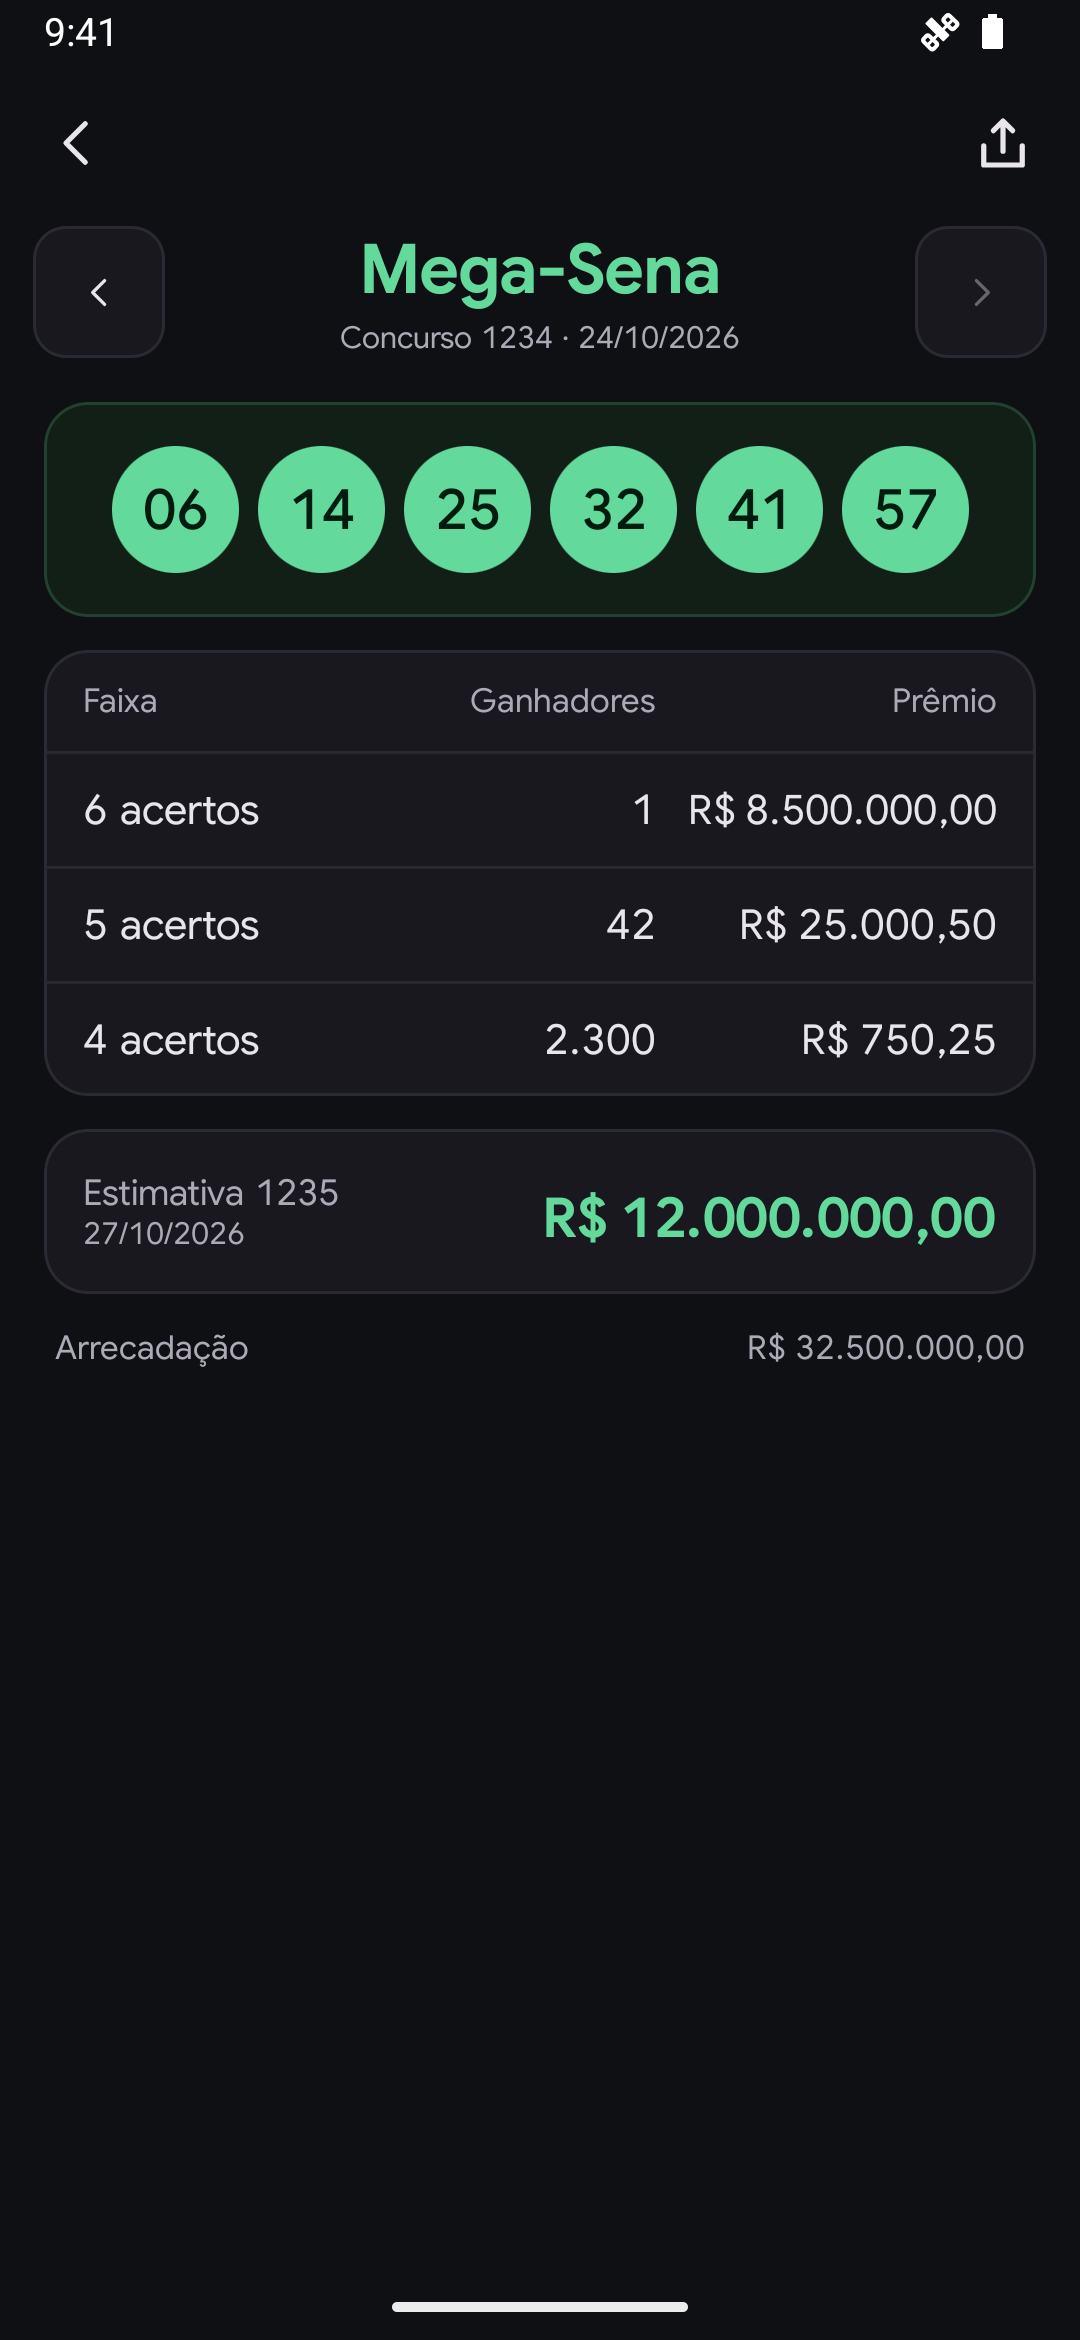
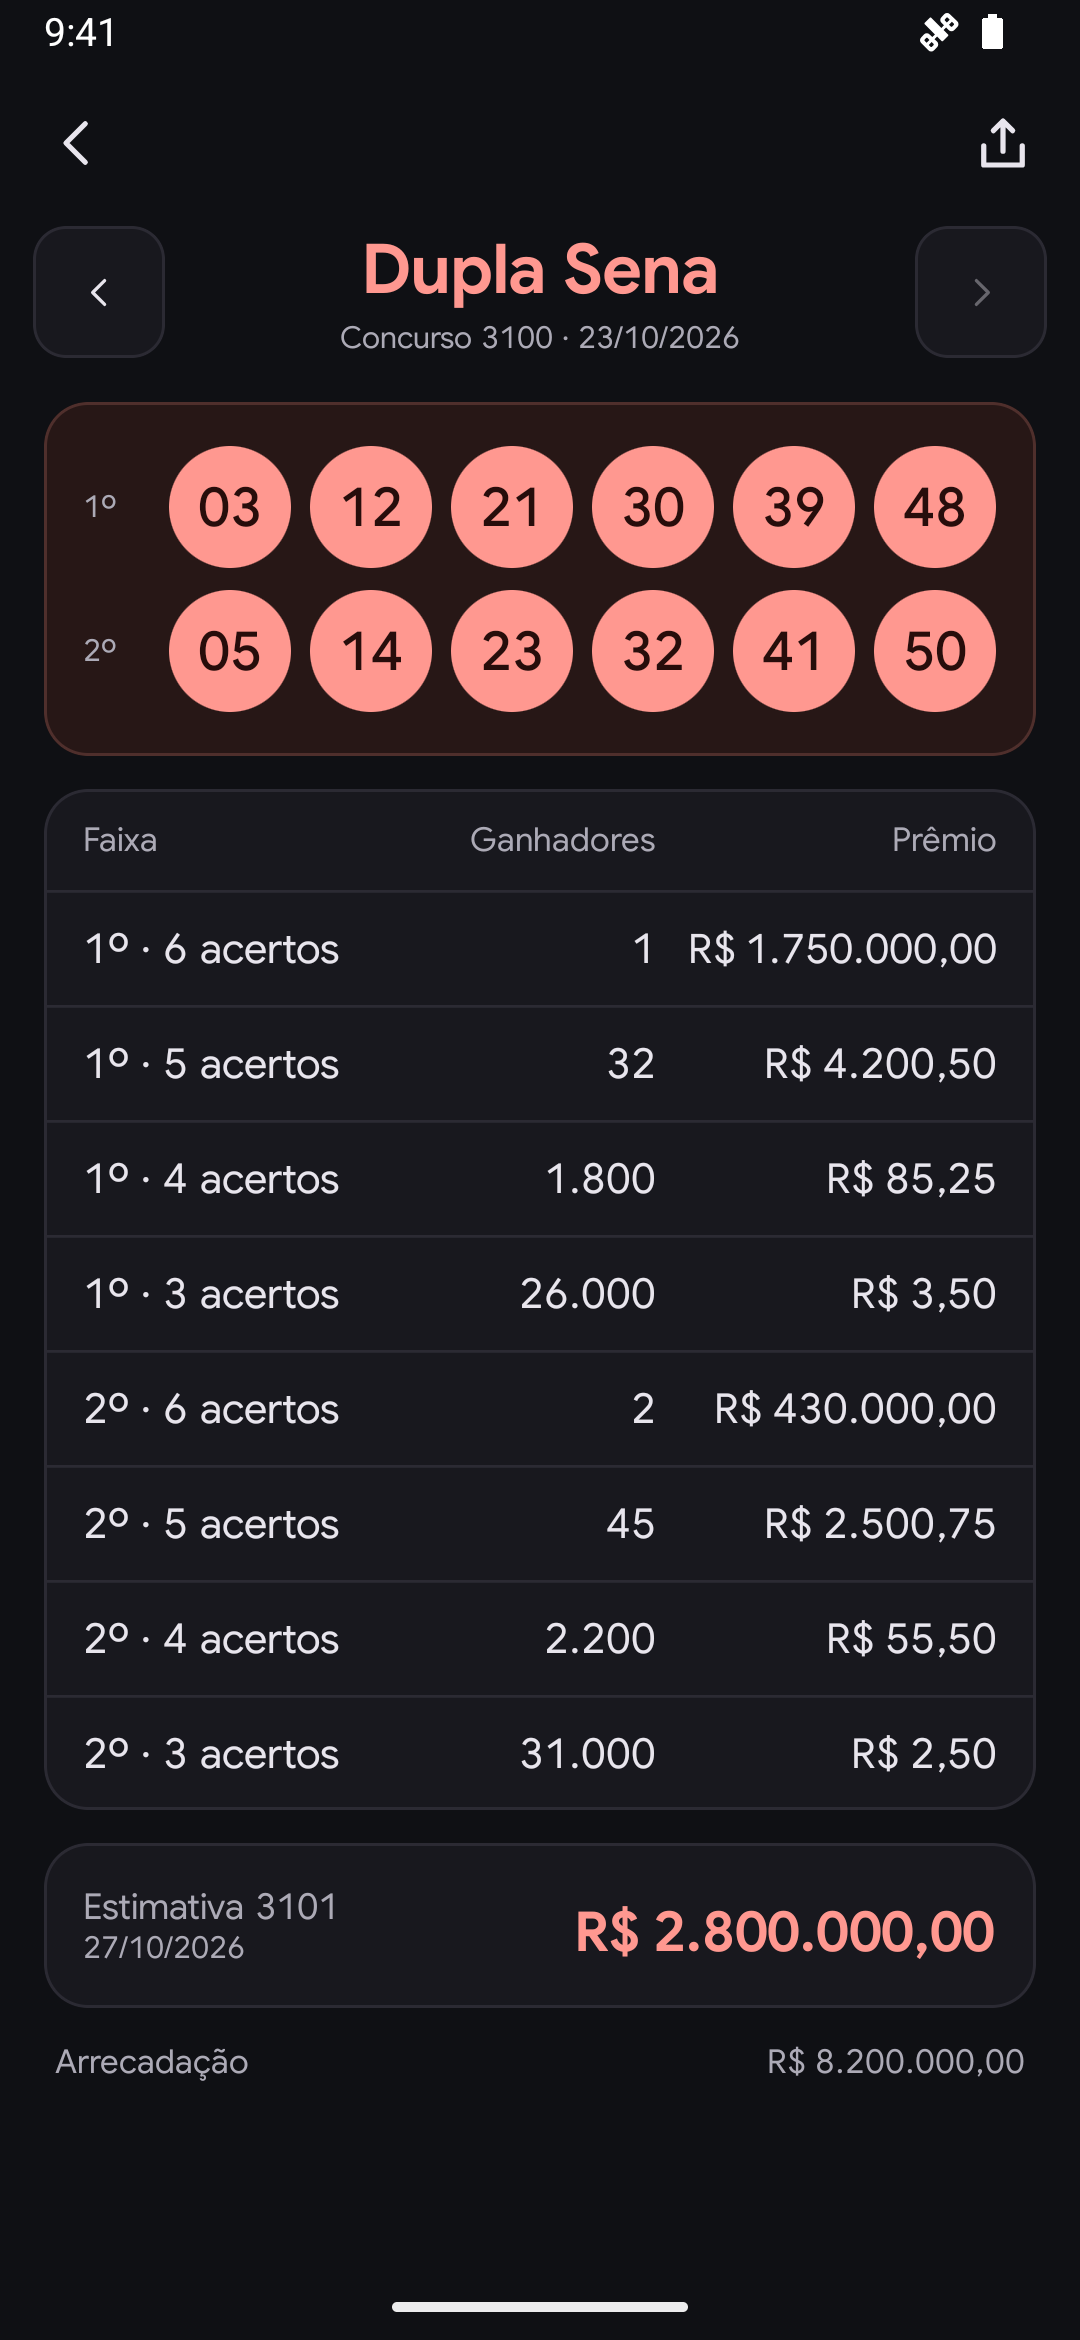
docs(presentation): clarify the copy and show a fuller draw
[Review]
- Distinguish navigation destinations from result and detail screens.
- Name the modality range and trademark owner precisely.
- Vary the illustrative draws and show both Dupla Sena prize tables so
  the screenshots demonstrate more of the app within the same space.

Implemented-by: codex:gpt-6.1-sol#xhigh

diff --git a/README.md b/README.md
@@ -13,14 +13,14 @@
   <a href="https://github.com/11xx/lotolivre/releases">Releases · APK para Android</a>
 </p>
 
-Da Mega-Sena à Loteca, os resultados ficam numa única lista. Abra uma modalidade
+Da Mega-Sena à Federal, os resultados ficam numa única lista. Abra uma modalidade
 para ver a premiação, navegar entre concursos e compartilhar o resultado como
 imagem. Os concursos consultados ficam no aparelho e abrem mesmo sem internet.
 
 <p align="center">
   <img src="docs/screenshots/results-light.png" width="320" alt="Lista de resultados no tema claro, com cartões coloridos por modalidade">
   &nbsp;
-  <img src="docs/screenshots/detail-dark.png" width="320" alt="Detalhe da Mega-Sena no tema escuro, com dezenas, ganhadores e premiação">
+  <img src="docs/screenshots/detail-dark.png" width="320" alt="Detalhe da Dupla Sena no tema escuro, com os dois sorteios e a premiação">
 </p>
 
 <p align="center"><sub>Telas do aplicativo em execução com dados fictícios.</sub></p>
@@ -30,7 +30,7 @@ jogos, não guarda apostas e não pede cadastro. Os resultados vêm da API do
 portal de loterias da Caixa, que não é documentada e pode mudar sem aviso.
 
 LotoLivre é independente, sem afiliação ou endosso da Caixa Econômica Federal.
-Os nomes das modalidades são marcas de seus respectivos titulares, usados
-para identificar os resultados. O aplicativo não distribui logotipos da Caixa.
+Os nomes das modalidades são marcas da Caixa e identificam os resultados.
+O aplicativo não distribui logotipos da Caixa.
 
 Domínio público, sob a [Unlicense](UNLICENSE).
